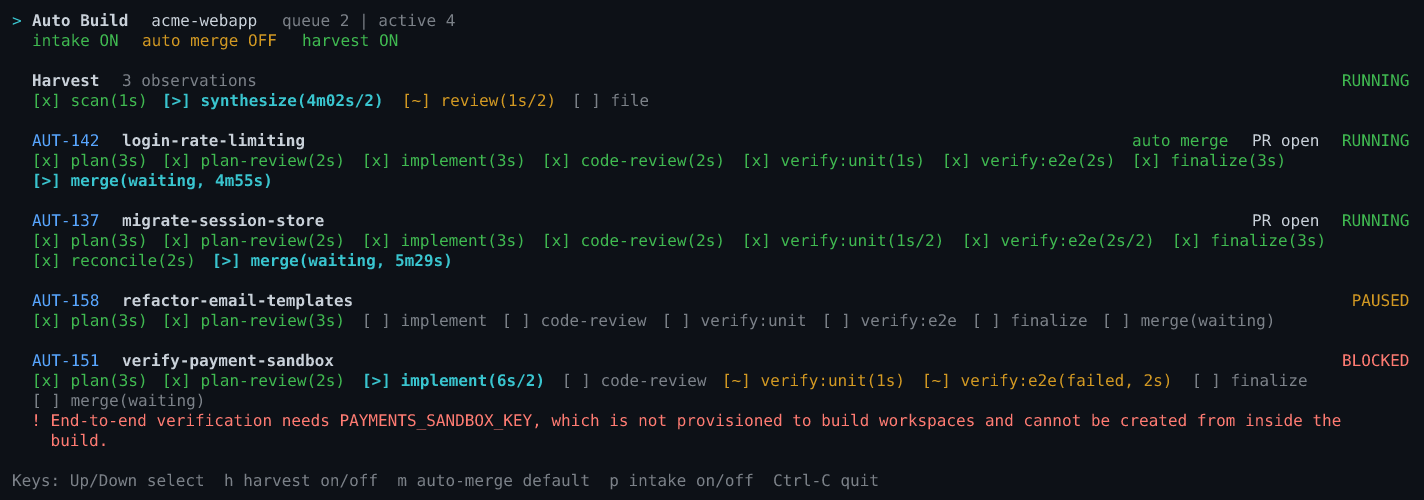
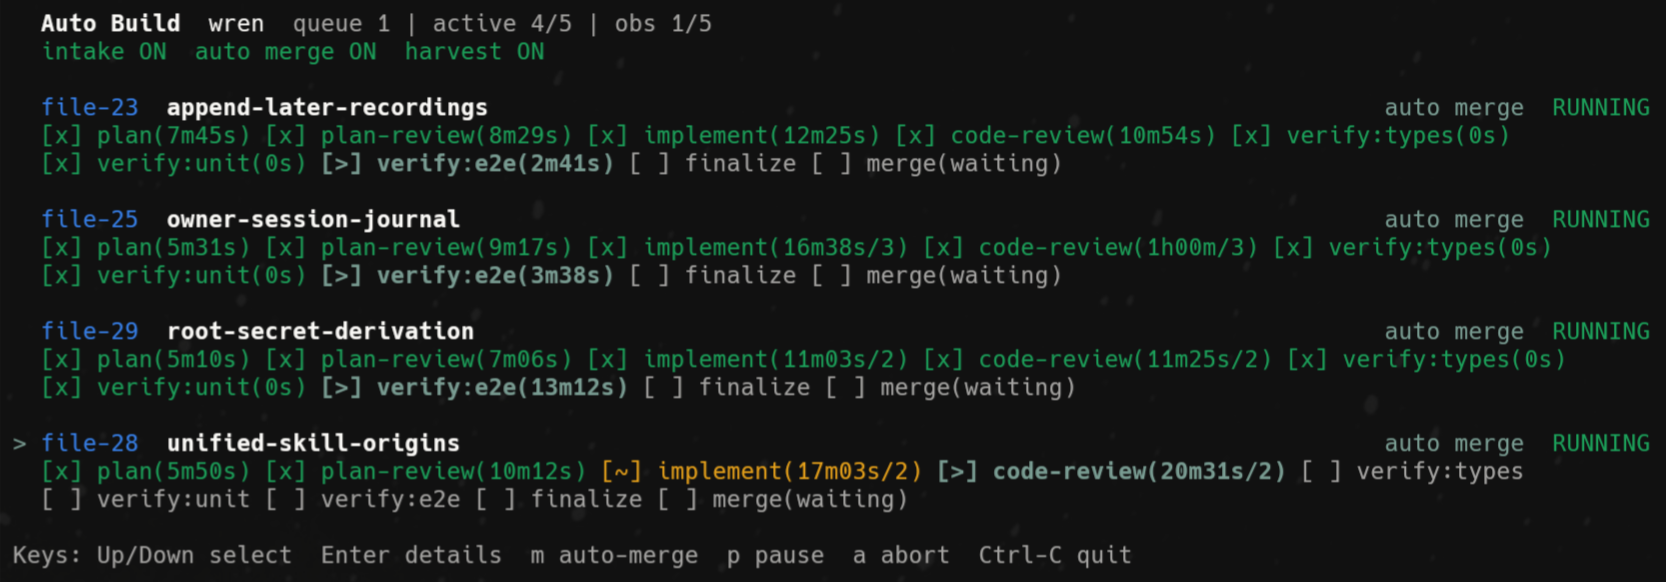
Refresh the README headline screenshot
Swap in a newer dashboard capture and correct the alt text: the new frame
has no Harvest row, so it no longer shows an observation harvest running.

Changed region(s): [[0.0, 0.15, 0.9888, 0.9], [0.0, 0.93, 0.6798, 0.99], [0.0, 0.03, 0.4326, 0.12]]

diff --git a/README.md b/README.md
@@ -10,8 +10,8 @@ Every build runs headless, so ten tickets in flight cost the same
 attention as one. You groom tickets in, you review pull requests out. 
 Agents do the work, and deterministic code keeps them honest.
 
-![The autobuild dispatch dashboard with four builds in flight and an
-observation harvest running](docs/assets/headline-wide.png)
+![The autobuild dispatch dashboard with four builds in flight, each partway
+through the pipeline](docs/assets/headline-wide.png)
 
 ## Groomed ticket in, reviewed PR out
 
